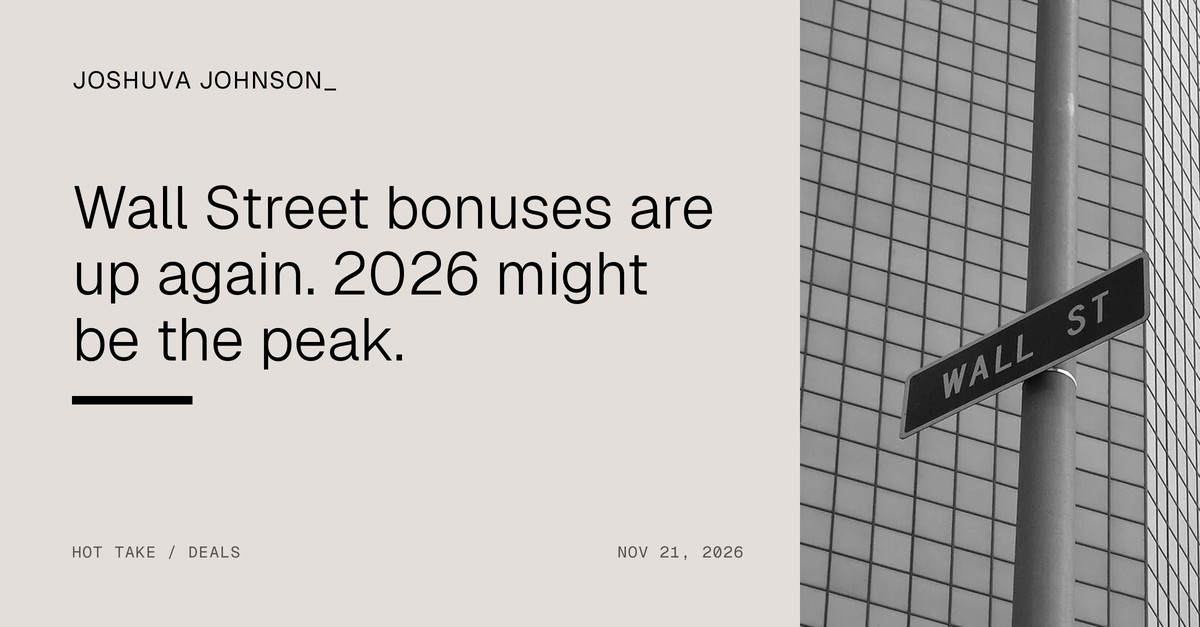
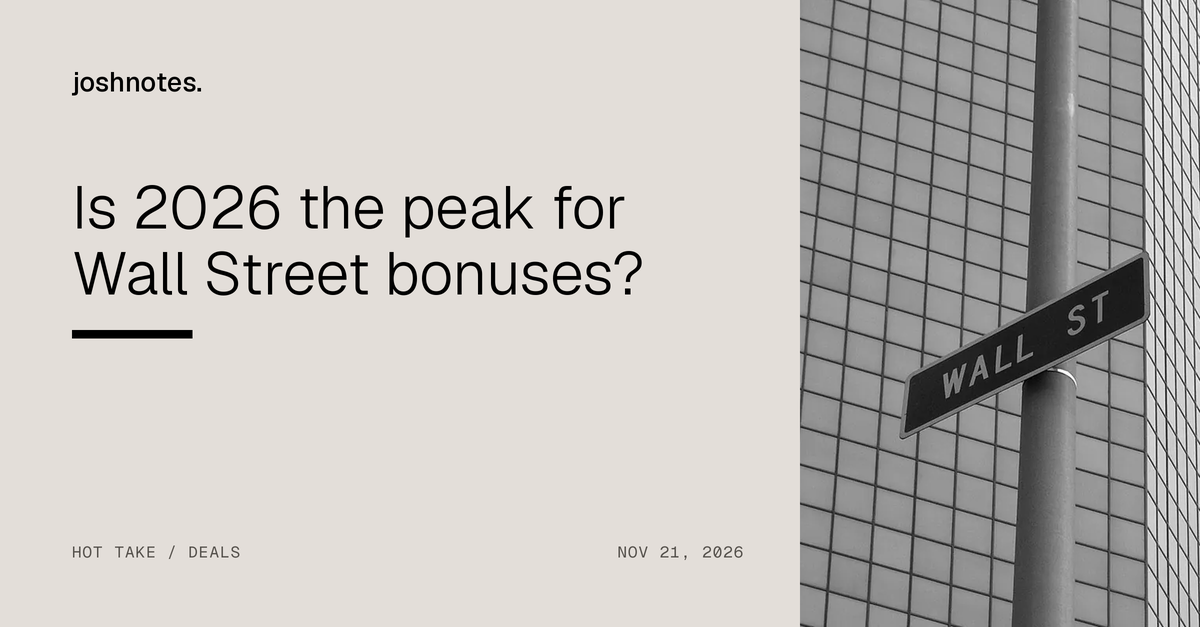
Notes: question titles for the AI and bonus notes; private credit note removed
Claude-Session: https://claude.ai/code/session_01Dc4KQMDr4px4SMpMrXU2Lh

diff --git a/notes/bonus-season/index.html b/notes/bonus-season/index.html
@@ -3,18 +3,18 @@
 <head>
 <meta charset="utf-8">
 <meta name="viewport" content="width=device-width, initial-scale=1">
-<title>Wall Street bonuses are up again. 2026 might be the peak. | Joshuva Johnson</title>
+<title>Is 2026 the peak for Wall Street bonuses? | joshnotes</title>
 <meta name="description" content="Johnson Associates expects bonuses to rise for a third straight year, led by equity traders and underwriters. The harder question is whether the deals that paid for them keep coming at today&#x27;s rates.">
-<link rel="canonical" href="https://joshuvajohnson.github.io/notes/bonus-season/">
-<meta property="og:site_name" content="Joshuva Johnson">
-<meta property="og:title" content="Wall Street bonuses are up again. 2026 might be the peak.">
+<link rel="canonical" href="https://joshnotes.github.io/notes/bonus-season/">
+<meta property="og:site_name" content="joshnotes">
+<meta property="og:title" content="Is 2026 the peak for Wall Street bonuses?">
 <meta property="og:description" content="Johnson Associates expects bonuses to rise for a third straight year, led by equity traders and underwriters. The harder question is whether the deals that paid for them keep coming at today&#x27;s rates.">
-<meta property="og:url" content="https://joshuvajohnson.github.io/notes/bonus-season/">
+<meta property="og:url" content="https://joshnotes.github.io/notes/bonus-season/">
 <meta property="og:type" content="article">
-<meta property="og:image" content="https://joshuvajohnson.github.io/assets/og/notes-bonus-season.png">
+<meta property="og:image" content="https://joshnotes.github.io/assets/og/notes-bonus-season.png">
 <meta property="og:image:width" content="1200">
 <meta property="og:image:height" content="627">
-<meta property="og:image:alt" content="Wall Street bonuses are up again. 2026 might be the peak.">
+<meta property="og:image:alt" content="Is 2026 the peak for Wall Street bonuses?">
 <meta name="twitter:card" content="summary_large_image">
 <meta property="article:published_time" content="2026-11-21">
 <meta property="article:author" content="Joshuva Johnson">
@@ -26,14 +26,14 @@
 <meta name="theme-color" content="#000000" media="(prefers-color-scheme: dark)">
 <link rel="preload" href="/assets/fonts/geist-latin-wght-normal.woff2" as="font" type="font/woff2" crossorigin>
 <link rel="preload" href="/assets/fonts/geist-mono-latin-wght-normal.woff2" as="font" type="font/woff2" crossorigin>
-<link rel="stylesheet" href="/assets/site.css?v=1c3206f5">
+<link rel="stylesheet" href="/assets/site.css?v=84aec8df">
 </head>
 <body class="article">
 <a class="skip" href="#main">Skip to content</a>
 
 <nav class="nav gut" aria-label="Main">
   <div class="wrap">
-    <a class="mark" href="/">Joshuva Johnson</a>
+    <a class="mark" href="/">joshnotes</a>
     <ul class="links">
       <li><a href="/">Home</a></li>
       <li><a href="/notes/" aria-current="page">Notes</a></li>
@@ -47,7 +47,7 @@
 <main id="main">
 <article class="artwrap gut">
   <p class="crumbs"><a href="/notes/">Notes</a><span>/</span><span>Hot take</span></p>
-  <h1>Wall Street bonuses are up again. 2026 might be the peak.</h1>
+  <h1>Is 2026 the peak for Wall Street bonuses?</h1>
   <p class="dek">Johnson Associates expects bonuses to rise for a third straight year, led by equity traders and underwriters. The harder question is whether the deals that paid for them keep coming at today&#x27;s rates.</p>
   <p class="byline"><b>Joshuva Johnson</b><time datetime="2026-11-21">Nov 21, 2026</time></p>
 <figure class="lead photo"><img src="/assets/img/lead/notes-bonus-season-1200.webp" srcset="/assets/img/lead/notes-bonus-season-600.webp 600w, /assets/img/lead/notes-bonus-season-1200.webp 1200w" sizes="(max-width: 640px) 100vw, 880px" width="1200" height="800" alt="A Wall Street street sign against a glass office tower"><figcaption>Photo: <a href="https://commons.wikimedia.org/wiki/File:Wall-Street-Sign-New-York.jpg">Acediscovery</a>, <a href="https://creativecommons.org/licenses/by/4.0/">CC BY 4.0</a>, cropped</figcaption></figure>
@@ -69,14 +69,14 @@
 <li><a href="https://www.morningstar.com/news/dow-jones/202611198503/10-year-treasury-yield-falls-to-5051-data-talk">10-Year Treasury Yield Falls to 5.051%</a>, Dow Jones via Morningstar</li>
 </ol></section>
 
-  <nav class="pager" aria-label="More in Notes"><a class="nextup" href="/notes/private-credit-defaults/"><p class="kick">Previous</p><h3>Private credit&#x27;s defaults are hiding in IOUs, not courtrooms</h3></a></nav>
+  <nav class="pager" aria-label="More in Notes"><a class="nextup" href="/notes/ai-bottleneck/"><p class="kick">Previous</p><h3>Did Microsoft just tell us where the AI bottleneck is?</h3></a></nav>
 </article>
 </main>
 
 <footer class="gut">
   <div class="wrap">
     <div class="top">
-      <a class="mark" href="/">Joshuva Johnson</a>
+      <a class="mark" href="/">joshnotes</a>
       <ul class="links">
         <li><a href="/">Home</a></li>
         <li><a href="/notes/" aria-current="page">Notes</a></li>

diff --git a/notes/index.html b/notes/index.html
@@ -3,13 +3,13 @@
 <head>
 <meta charset="utf-8">
 <meta name="viewport" content="width=device-width, initial-scale=1">
-<title>Notes | Joshuva Johnson</title>
+<title>Notes | joshnotes</title>
 <meta name="description" content="Short notes on markets, deals and books by Joshuva Johnson, an analyst in New York.">
-<link rel="canonical" href="https://joshuvajohnson.github.io/notes/">
-<meta property="og:site_name" content="Joshuva Johnson">
+<link rel="canonical" href="https://joshnotes.github.io/notes/">
+<meta property="og:site_name" content="joshnotes">
 <meta property="og:title" content="Notes">
 <meta property="og:description" content="Short notes on markets, deals and books by Joshuva Johnson, an analyst in New York.">
-<meta property="og:url" content="https://joshuvajohnson.github.io/notes/">
+<meta property="og:url" content="https://joshnotes.github.io/notes/">
 <meta property="og:type" content="website">
 <meta name="author" content="Joshuva Johnson">
 <link rel="icon" href="/favicon.ico" sizes="48x48">
@@ -19,14 +19,14 @@
 <meta name="theme-color" content="#000000" media="(prefers-color-scheme: dark)">
 <link rel="preload" href="/assets/fonts/geist-latin-wght-normal.woff2" as="font" type="font/woff2" crossorigin>
 <link rel="preload" href="/assets/fonts/geist-mono-latin-wght-normal.woff2" as="font" type="font/woff2" crossorigin>
-<link rel="stylesheet" href="/assets/site.css?v=1c3206f5">
+<link rel="stylesheet" href="/assets/site.css?v=84aec8df">
 </head>
 <body class="">
 <a class="skip" href="#main">Skip to content</a>
 
 <nav class="nav gut" aria-label="Main">
   <div class="wrap">
-    <a class="mark" href="/">Joshuva Johnson</a>
+    <a class="mark" href="/">joshnotes</a>
     <ul class="links">
       <li><a href="/">Home</a></li>
       <li><a href="/notes/" aria-current="page">Notes</a></li>
@@ -47,10 +47,9 @@
 <section class="gut" aria-label="All notes">
   <div class="wrap">
     <div class="grid2">
-      <a class="cardlink" href="/notes/rates-sell-off/"><div class="card"><h3>The AI story didn&#x27;t break this week. Trust in it did.</h3><p class="dek">The 10-year Treasury yield fell this week, and the S&amp;P 500 dropped 8.6% anyway. Investors are charging more to hold risk, and the AI trade sits in the middle of it.</p></div></a>
+      <a class="cardlink" href="/notes/rates-sell-off/"><div class="card"><h3>How&#x27;s our trust in AI this week?</h3><p class="dek">The 10-year Treasury yield fell this week, and the S&amp;P 500 dropped 8.6% anyway. Investors are charging more to hold risk, and the AI trade sits in the middle of it.</p></div></a>
       <a class="cardlink" href="/notes/ai-bottleneck/"><div class="card"><h3>Did Microsoft just tell us where the AI bottleneck is?</h3><p class="dek">Microsoft is spending as fast as it can and still running short of AI capacity. The holdup is buildings, grid connections and the electrical gear in between.</p></div></a>
-      <a class="cardlink" href="/notes/private-credit-defaults/"><div class="card"><h3>Private credit&#x27;s defaults are hiding in IOUs, not courtrooms</h3><p class="dek">Fitch&#x27;s default rate has been at or above 6% since April. Many of those borrowers now pay interest with more debt instead of cash, which delays the losses without avoiding them.</p></div></a>
-      <a class="cardlink" href="/notes/bonus-season/"><div class="card"><h3>Wall Street bonuses are up again. 2026 might be the peak.</h3><p class="dek">Johnson Associates expects bonuses to rise for a third straight year, led by equity traders and underwriters. The harder question is whether the deals that paid for them keep coming at today&#x27;s rates.</p></div></a>
+      <a class="cardlink" href="/notes/bonus-season/"><div class="card"><h3>Is 2026 the peak for Wall Street bonuses?</h3><p class="dek">Johnson Associates expects bonuses to rise for a third straight year, led by equity traders and underwriters. The harder question is whether the deals that paid for them keep coming at today&#x27;s rates.</p></div></a>
     </div>
   </div>
 </section>
@@ -60,7 +59,7 @@
 <footer class="gut">
   <div class="wrap">
     <div class="top">
-      <a class="mark" href="/">Joshuva Johnson</a>
+      <a class="mark" href="/">joshnotes</a>
       <ul class="links">
         <li><a href="/">Home</a></li>
         <li><a href="/notes/" aria-current="page">Notes</a></li>

diff --git a/notes/rates-sell-off/index.html b/notes/rates-sell-off/index.html
@@ -3,18 +3,18 @@
 <head>
 <meta charset="utf-8">
 <meta name="viewport" content="width=device-width, initial-scale=1">
-<title>The AI story didn&#x27;t break this week. Trust in it did. | Joshuva Johnson</title>
+<title>How&#x27;s our trust in AI this week? | joshnotes</title>
 <meta name="description" content="The 10-year Treasury yield fell this week, and the S&amp;P 500 dropped 8.6% anyway. Investors are charging more to hold risk, and the AI trade sits in the middle of it.">
-<link rel="canonical" href="https://joshuvajohnson.github.io/notes/rates-sell-off/">
-<meta property="og:site_name" content="Joshuva Johnson">
-<meta property="og:title" content="The AI story didn&#x27;t break this week. Trust in it did.">
+<link rel="canonical" href="https://joshnotes.github.io/notes/rates-sell-off/">
+<meta property="og:site_name" content="joshnotes">
+<meta property="og:title" content="How&#x27;s our trust in AI this week?">
 <meta property="og:description" content="The 10-year Treasury yield fell this week, and the S&amp;P 500 dropped 8.6% anyway. Investors are charging more to hold risk, and the AI trade sits in the middle of it.">
-<meta property="og:url" content="https://joshuvajohnson.github.io/notes/rates-sell-off/">
+<meta property="og:url" content="https://joshnotes.github.io/notes/rates-sell-off/">
 <meta property="og:type" content="article">
-<meta property="og:image" content="https://joshuvajohnson.github.io/assets/og/notes-rates-sell-off.png">
+<meta property="og:image" content="https://joshnotes.github.io/assets/og/notes-rates-sell-off.png">
 <meta property="og:image:width" content="1200">
 <meta property="og:image:height" content="627">
-<meta property="og:image:alt" content="The AI story didn&#x27;t break this week. Trust in it did.">
+<meta property="og:image:alt" content="How&#x27;s our trust in AI this week?">
 <meta name="twitter:card" content="summary_large_image">
 <meta property="article:published_time" content="2026-11-22">
 <meta property="article:author" content="Joshuva Johnson">
@@ -26,14 +26,14 @@
 <meta name="theme-color" content="#000000" media="(prefers-color-scheme: dark)">
 <link rel="preload" href="/assets/fonts/geist-latin-wght-normal.woff2" as="font" type="font/woff2" crossorigin>
 <link rel="preload" href="/assets/fonts/geist-mono-latin-wght-normal.woff2" as="font" type="font/woff2" crossorigin>
-<link rel="stylesheet" href="/assets/site.css?v=1c3206f5">
+<link rel="stylesheet" href="/assets/site.css?v=84aec8df">
 </head>
 <body class="article">
 <a class="skip" href="#main">Skip to content</a>
 
 <nav class="nav gut" aria-label="Main">
   <div class="wrap">
-    <a class="mark" href="/">Joshuva Johnson</a>
+    <a class="mark" href="/">joshnotes</a>
     <ul class="links">
       <li><a href="/">Home</a></li>
       <li><a href="/notes/" aria-current="page">Notes</a></li>
@@ -47,7 +47,7 @@
 <main id="main">
 <article class="artwrap gut">
   <p class="crumbs"><a href="/notes/">Notes</a><span>/</span><span>Hot take</span></p>
-  <h1>The AI story didn&#x27;t break this week. Trust in it did.</h1>
+  <h1>How&#x27;s our trust in AI this week?</h1>
   <p class="dek">The 10-year Treasury yield fell this week, and the S&amp;P 500 dropped 8.6% anyway. Investors are charging more to hold risk, and the AI trade sits in the middle of it.</p>
   <p class="byline"><b>Joshuva Johnson</b><time datetime="2026-11-22">Nov 22, 2026</time></p>
 <figure class="lead photo"><img src="/assets/img/lead/notes-rates-sell-off-1200.webp" srcset="/assets/img/lead/notes-rates-sell-off-600.webp 600w, /assets/img/lead/notes-rates-sell-off-1200.webp 1200w" sizes="(max-width: 640px) 100vw, 880px" width="1200" height="800" alt="The columns of the New York Stock Exchange on Broad Street"><figcaption>Photo: <a href="https://commons.wikimedia.org/wiki/File:Sign_of_the_New_York_Stock_Exchange,_Broad_Street.jpg">Billie Grace Ward</a>, <a href="https://creativecommons.org/publicdomain/zero/1.0/">CC0</a></figcaption></figure>
@@ -101,7 +101,7 @@
 <footer class="gut">
   <div class="wrap">
     <div class="top">
-      <a class="mark" href="/">Joshuva Johnson</a>
+      <a class="mark" href="/">joshnotes</a>
       <ul class="links">
         <li><a href="/">Home</a></li>
         <li><a href="/notes/" aria-current="page">Notes</a></li>

diff --git a/notes/ai-bottleneck/index.html b/notes/ai-bottleneck/index.html
@@ -3,15 +3,15 @@
 <head>
 <meta charset="utf-8">
 <meta name="viewport" content="width=device-width, initial-scale=1">
-<title>Did Microsoft just tell us where the AI bottleneck is? | Joshuva Johnson</title>
+<title>Did Microsoft just tell us where the AI bottleneck is? | joshnotes</title>
 <meta name="description" content="Microsoft is spending as fast as it can and still running short of AI capacity. The holdup is buildings, grid connections and the electrical gear in between.">
-<link rel="canonical" href="https://joshuvajohnson.github.io/notes/ai-bottleneck/">
-<meta property="og:site_name" content="Joshuva Johnson">
+<link rel="canonical" href="https://joshnotes.github.io/notes/ai-bottleneck/">
+<meta property="og:site_name" content="joshnotes">
 <meta property="og:title" content="Did Microsoft just tell us where the AI bottleneck is?">
 <meta property="og:description" content="Microsoft is spending as fast as it can and still running short of AI capacity. The holdup is buildings, grid connections and the electrical gear in between.">
-<meta property="og:url" content="https://joshuvajohnson.github.io/notes/ai-bottleneck/">
+<meta property="og:url" content="https://joshnotes.github.io/notes/ai-bottleneck/">
 <meta property="og:type" content="article">
-<meta property="og:image" content="https://joshuvajohnson.github.io/assets/og/notes-ai-bottleneck.png">
+<meta property="og:image" content="https://joshnotes.github.io/assets/og/notes-ai-bottleneck.png">
 <meta property="og:image:width" content="1200">
 <meta property="og:image:height" content="627">
 <meta property="og:image:alt" content="Did Microsoft just tell us where the AI bottleneck is?">
@@ -26,14 +26,14 @@
 <meta name="theme-color" content="#000000" media="(prefers-color-scheme: dark)">
 <link rel="preload" href="/assets/fonts/geist-latin-wght-normal.woff2" as="font" type="font/woff2" crossorigin>
 <link rel="preload" href="/assets/fonts/geist-mono-latin-wght-normal.woff2" as="font" type="font/woff2" crossorigin>
-<link rel="stylesheet" href="/assets/site.css?v=1c3206f5">
+<link rel="stylesheet" href="/assets/site.css?v=84aec8df">
 </head>
 <body class="article">
 <a class="skip" href="#main">Skip to content</a>
 
 <nav class="nav gut" aria-label="Main">
   <div class="wrap">
-    <a class="mark" href="/">Joshuva Johnson</a>
+    <a class="mark" href="/">joshnotes</a>
     <ul class="links">
       <li><a href="/">Home</a></li>
       <li><a href="/notes/" aria-current="page">Notes</a></li>
@@ -71,14 +71,14 @@
 <li><a href="https://www.tikr.com/blog/eaton-lost-23-in-a-month-rbc-sees-58-upside-from-here">Eaton Lost 23% in a Month</a>, TIKR</li>
 </ol></section>
 
-  <nav class="pager" aria-label="More in Notes"><a class="nextup" href="/notes/rates-sell-off/"><p class="kick">Previous</p><h3>The AI story didn&#x27;t break this week. Trust in it did.</h3></a><a class="nextup" href="/notes/private-credit-defaults/"><p class="kick">Next</p><h3>Private credit&#x27;s defaults are hiding in IOUs, not courtrooms</h3></a></nav>
+  <nav class="pager" aria-label="More in Notes"><a class="nextup" href="/notes/rates-sell-off/"><p class="kick">Previous</p><h3>How&#x27;s our trust in AI this week?</h3></a><a class="nextup" href="/notes/bonus-season/"><p class="kick">Next</p><h3>Is 2026 the peak for Wall Street bonuses?</h3></a></nav>
 </article>
 </main>
 
 <footer class="gut">
   <div class="wrap">
     <div class="top">
-      <a class="mark" href="/">Joshuva Johnson</a>
+      <a class="mark" href="/">joshnotes</a>
       <ul class="links">
         <li><a href="/">Home</a></li>
         <li><a href="/notes/" aria-current="page">Notes</a></li>

diff --git a/src/content/pages/method.html b/src/content/pages/method.html
@@ -1,5 +1,5 @@
 <!--meta
-{"title": "Pitch Framework", "page_title": "Pitch Framework | Joshuva Johnson", "dek": "Every stock pitch follows the same five steps: industry, business, model, valuation and risks. Each step is shown with a real exhibit from a pitch.", "path": "/research/method/", "nav": "research", "legacy": "r-method"}
+{"title": "Pitch Framework", "page_title": "Pitch Framework | joshnotes", "dek": "Every stock pitch follows the same five steps: industry, business, model, valuation and risks. Each step is shown with a real exhibit from a pitch.", "path": "/research/method/", "nav": "research", "legacy": "r-method"}
 -->
 <div class="gut">
   <div class="wrap" style="padding-top:clamp(48px,7vw,88px)">
@@ -98,6 +98,6 @@
       </article>
 
     </div>
-    <p class="method-end">The cost of capital behind every valuation is the risk-free rate plus beta times the equity risk premium, updated when markets move. I explain the latest change in <a href="/notes/rates-sell-off/">The AI story didn't break this week. Trust in it did.</a></p>
+    <p class="method-end">The cost of capital behind every valuation is the risk-free rate plus beta times the equity risk premium, updated when markets move. The latest change is in my note <a href="/notes/rates-sell-off/">How's our trust in AI this week?</a></p>
   </div>
 </section>

diff --git a/thoughts/ai-bottleneck/index.html b/thoughts/ai-bottleneck/index.html
@@ -1,1 +1,1 @@
-<!DOCTYPE html><html lang="en"><head><meta charset="utf-8"><title>Did Microsoft just tell us where the AI bottleneck is? | Joshuva Johnson</title><link rel="canonical" href="https://joshuvajohnson.github.io/notes/ai-bottleneck/"><meta name="robots" content="noindex"><meta http-equiv="refresh" content="0; url=/notes/ai-bottleneck/"><script>location.replace("/notes/ai-bottleneck/"+location.hash)</script></head><body><p>This page moved to <a href="/notes/ai-bottleneck/">Did Microsoft just tell us where the AI bottleneck is?</a>.</p></body></html>
+<!DOCTYPE html><html lang="en"><head><meta charset="utf-8"><title>Did Microsoft just tell us where the AI bottleneck is? | joshnotes</title><link rel="canonical" href="https://joshnotes.github.io/notes/ai-bottleneck/"><meta name="robots" content="noindex"><meta http-equiv="refresh" content="0; url=/notes/ai-bottleneck/"><script>location.replace("/notes/ai-bottleneck/"+location.hash)</script></head><body><p>This page moved to <a href="/notes/ai-bottleneck/">Did Microsoft just tell us where the AI bottleneck is?</a>.</p></body></html>

diff --git a/thoughts/rates-sell-off/index.html b/thoughts/rates-sell-off/index.html
@@ -1,1 +1,1 @@
-<!DOCTYPE html><html lang="en"><head><meta charset="utf-8"><title>The AI story didn&#x27;t break this week. Trust in it did. | Joshuva Johnson</title><link rel="canonical" href="https://joshuvajohnson.github.io/notes/rates-sell-off/"><meta name="robots" content="noindex"><meta http-equiv="refresh" content="0; url=/notes/rates-sell-off/"><script>location.replace("/notes/rates-sell-off/"+location.hash)</script></head><body><p>This page moved to <a href="/notes/rates-sell-off/">The AI story didn&#x27;t break this week. Trust in it did.</a>.</p></body></html>
+<!DOCTYPE html><html lang="en"><head><meta charset="utf-8"><title>How&#x27;s our trust in AI this week? | joshnotes</title><link rel="canonical" href="https://joshnotes.github.io/notes/rates-sell-off/"><meta name="robots" content="noindex"><meta http-equiv="refresh" content="0; url=/notes/rates-sell-off/"><script>location.replace("/notes/rates-sell-off/"+location.hash)</script></head><body><p>This page moved to <a href="/notes/rates-sell-off/">How&#x27;s our trust in AI this week?</a>.</p></body></html>

diff --git a/thoughts/bonus-season/index.html b/thoughts/bonus-season/index.html
@@ -1,1 +1,1 @@
-<!DOCTYPE html><html lang="en"><head><meta charset="utf-8"><title>Wall Street bonuses are up again. 2026 might be the peak. | Joshuva Johnson</title><link rel="canonical" href="https://joshuvajohnson.github.io/notes/bonus-season/"><meta name="robots" content="noindex"><meta http-equiv="refresh" content="0; url=/notes/bonus-season/"><script>location.replace("/notes/bonus-season/"+location.hash)</script></head><body><p>This page moved to <a href="/notes/bonus-season/">Wall Street bonuses are up again. 2026 might be the peak.</a>.</p></body></html>
+<!DOCTYPE html><html lang="en"><head><meta charset="utf-8"><title>Is 2026 the peak for Wall Street bonuses? | joshnotes</title><link rel="canonical" href="https://joshnotes.github.io/notes/bonus-season/"><meta name="robots" content="noindex"><meta http-equiv="refresh" content="0; url=/notes/bonus-season/"><script>location.replace("/notes/bonus-season/"+location.hash)</script></head><body><p>This page moved to <a href="/notes/bonus-season/">Is 2026 the peak for Wall Street bonuses?</a>.</p></body></html>

diff --git a/thoughts/index.html b/thoughts/index.html
@@ -1,1 +1,1 @@
-<!DOCTYPE html><html lang="en"><head><meta charset="utf-8"><title>Notes | Joshuva Johnson</title><link rel="canonical" href="https://joshuvajohnson.github.io/notes/"><meta name="robots" content="noindex"><meta http-equiv="refresh" content="0; url=/notes/"><script>location.replace("/notes/"+location.hash)</script></head><body><p>This page moved to <a href="/notes/">Notes</a>.</p></body></html>
+<!DOCTYPE html><html lang="en"><head><meta charset="utf-8"><title>Notes | joshnotes</title><link rel="canonical" href="https://joshnotes.github.io/notes/"><meta name="robots" content="noindex"><meta http-equiv="refresh" content="0; url=/notes/"><script>location.replace("/notes/"+location.hash)</script></head><body><p>This page moved to <a href="/notes/">Notes</a>.</p></body></html>

diff --git a/src/content/notes/bonus-season.html b/src/content/notes/bonus-season.html
@@ -1,6 +1,6 @@
 <!--meta
 {
-  "title": "Wall Street bonuses are up again. 2026 might be the peak.",
+  "title": "Is 2026 the peak for Wall Street bonuses?",
   "dek": "Johnson Associates expects bonuses to rise for a third straight year, led by equity traders and underwriters. The harder question is whether the deals that paid for them keep coming at today's rates.",
   "date": "2026-11-21",
   "section": "notes",

diff --git a/src/content/notes/rates-sell-off.html b/src/content/notes/rates-sell-off.html
@@ -1,6 +1,6 @@
 <!--meta
 {
-  "title": "The AI story didn't break this week. Trust in it did.",
+  "title": "How's our trust in AI this week?",
   "dek": "The 10-year Treasury yield fell this week, and the S&P 500 dropped 8.6% anyway. Investors are charging more to hold risk, and the AI trade sits in the middle of it.",
   "date": "2026-11-22",
   "section": "notes",
